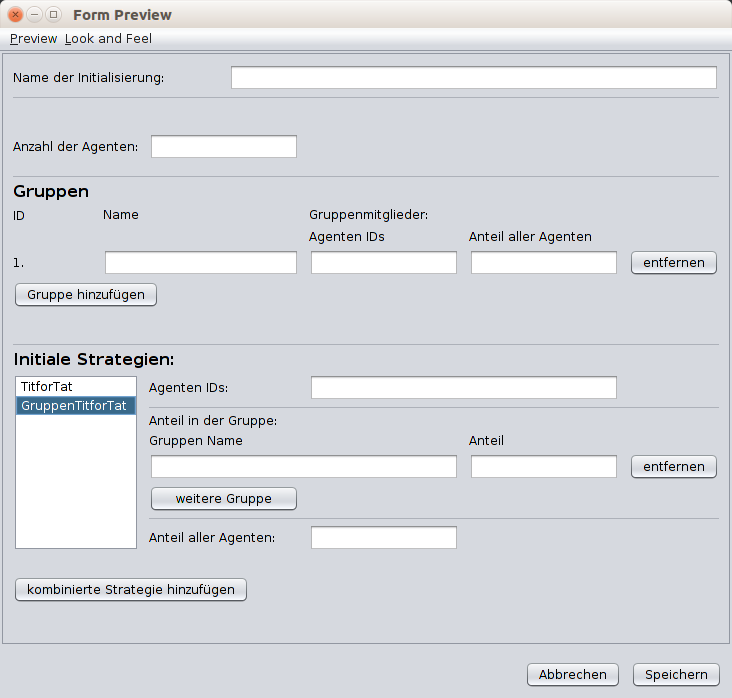
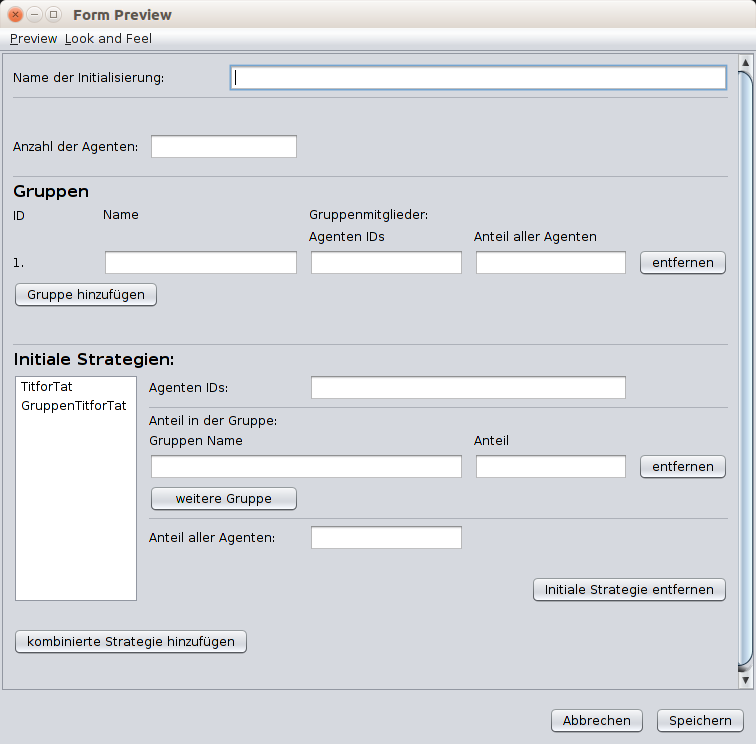
restlichen GUI Beschreibungen hinzugefügt

Changed region(s): [[0.0, 0.0602, 1.0, 0.9928], [0.0, 0.7822, 0.3306, 0.9026], [0.0, 0.0, 0.2404, 0.1504]]

diff --git a/Pflichtenheft/08_Benutzungsoberflaeche.tex b/Pflichtenheft/08_Benutzungsoberflaeche.tex
@@ -96,19 +96,19 @@
 
 \item[8. entfernen] Entfernt diese Zeile mit den entsprechenden Feldern drei bis sieben. Die Nummerierung wird entsprechend angepasst.
 
-\item[9. hinzufügen] 
+\item[9. hinzufügen] Fügt eine Zeile mit den entsprechenden Feldern drei bis sieben an. Die Nummerierung wird entsprechend fortgesetzt.
 
-\item[10. keine Bedingung] 
+\item[10. keine Bedingung] Strategie die ausgeführt, wenn keine der ausgewählten Bedingungen erfüllt ist.
 
-\item[11. Beschreibung] 
+\item[11. Beschreibung] Kombinierten Strategien kann eine Beschreibung hinzugefügt werden.
 
-\item[12. neue kombinierte Strategie] 
+\item[12. neue kombinierte Strategie] Fügt eine neue kombinierte Strategie in die Liste an. 
 
-\item[13. kombinierte Strategie löschen] 
+\item[13. kombinierte Strategie löschen] Die in der Liste ausgewählte kombinierte Strategie wird gelöscht.
 
-\item[14. Abbrechen] 
+\item[14. Abbrechen] Alle zuvor vorgenommen Änderungen inklusive das Erstellen neuer kombinierter Strategien werden verworfen und die Kombinierte Strategien Verwaltung schließt sich. 
 
-\item[15. Änderungen speichern und schließen] 
+\item[15. Änderungen speichern und schließen] Alle zuvor vorgenommen Änderungen werden gespeichert und die Kombinierte Strategien Verwaltung schließt sich.
 
 \end{description}
 
@@ -126,41 +126,43 @@
 
 \begin{description}
 
-\item[1. Name] 
+\item[1. Name] Name der Initialisierung
 
-\item[2. Anzahl der Agenten] 
+\item[2. Anzahl der Agenten] Anzahl der Agenten soll hier angegeben werden.
 
-\item[3. Gruppen - ID] 
+\item[3. Gruppen - ID] Die Gruppen ID wird automatisch vergeben.
 
-\item[4. Gruppen - Name] 
+\item[4. Gruppen - Name] Der Gruppen Name soll hier angegeben werden.
 
-\item[5. Gruppen - AgentenIDs] 
+\item[5. Gruppen - AgentenIDs] Hier können einzelne IDs ind ID Intervalle von Agenten dieser Gruppe angegeben werden. 
 
-\item[6. Gruppen - Anteil aller Agenten] 
+\item[6. Gruppen - Anteil aller Agenten] Hier kann ein prozentualer Anteil aller Agenten in dieser Gruppe angegeben werden.
 
-\item[7. Gruppen - entfernen] 
+\item[7. Gruppen - entfernen] Entfernt die Zeile mit den Feldern drei bis sechs. Die IDs der Gruppen werden entsprechend angepasst. 
 
-\item[8. Gruppen - Gruppe hinzufügen] 
+\item[8. Gruppen - Gruppe hinzufügen] Fügt eine neue Zeile mit den Felder drei bis sechs an. Die ID wird entsprechend vergeben.
 
-\item[9. Initiale Strategien - Liste] 
+\item[9. Initiale Strategien - Liste] Enthält alle initialen kombinierten Strategien. Die Parameter für den Anteil der in der Liste ausgewählte initiale Strategie werden rechts neben der Liste angezeigt. 
 
-\item[10. Initiale Strategien - Agenten IDs] 
+\item[10. Initiale Strategien - Agenten IDs] Hier können einzelne IDs ind ID Intervalle von Agenten mit dieser Strategie angegeben werden. 
 
-\item[11. Initiale Strategien - Gruppen Name] 
+\item[11. Initiale Strategien - Gruppen Name] Hier kann ein Gruppe mit ihrem Namen angegeben werden, zu der der Anteil der Agenten mit der gewählten Strategie angegeben werden soll.
 
-\item[12. Initiale Strategien - Anteil] 
+\item[12. Initiale Strategien - Anteil] Anteil der Agenten in der Gruppe mit der gewählten Strategie soll hier angegeben werden.
 
-\item[13. Initiale Strategien - entfernen] 
+\item[13. Initiale Strategien - entfernen] Entfernt die Zeile mit den Feldern elf und zwölf.
 
-\item[14. Initiale Strategien - weitere Gruppe] 
+\item[14. Initiale Strategien - weitere Gruppe] Fügt eine Zeile mit den Feldern elf und zwölf an.
 
-\item[15. Initiale Strategien - Anteil der Agenten] 
+\item[15. Initiale Strategien - Anteil der Agenten] Hier kann der Anteil aller Agenten mit dieser Initialen Strategie angegeben werden.
 
-\item[16. Initiale Strategien - kombinierte Strategie hinzufügen] 
+\item[17. Initiale Strategien - Initiale Strategie entfernen] Entfernt die ausgewählte initiale Strategie aus der Liste. 
 
-\item[17. Abbrechen] 
+\item[17. Initiale Strategien - kombinierte Strategie hinzufügen] 
 
-\item[18. Speichern] 
+\item[18. Abbrechen] Alle Änderungen werden verworfen und das Fenster wird geschlossen.
+
+\item[19. Speichern] Alle Änderungen werden gespeichert und das Fenster wird geschlossen.
 
 \end{description}
 
@@ -185,25 +187,25 @@
 
 \begin{description}
 
-\item[1. Stufenspiel] 
+\item[1. Stufenspiel] Hier kann eines von den gespeicherten und voreingestellten Stufenspielen ausgewählt werden. Im Textfeld darunter werden Informationen zum ausgewählten Stufenspiel angegeben.
 
-\item[2. Initialisierung] 
+\item[2. Initialisierung] Hier kann eine zuvor gespeicherte Initialisierung ausgewählt werden. Im Textfeld darunter werden Informationen zur ausgewählten Initialisierung angegeben.
 
-\item[3. Algorithmus zum Bilden von Paaren] 
+\item[3. Algorithmus zum Bilden von Paaren] Hier soll ein Algorithmus zum Bilden von Paaren gewählt werden. 
 
-\item[4. Bewertungsalgorithmus] 
+\item[4. Bewertungsalgorithmus] Hier soll ein Algorithmus zum Bilden von Paaren gewählt werden.
 
-\item[5. Anpassungsalgorithmus] 
+\item[5. Anpassungsalgorithmus] Hier soll ein Algorithmus zum Bilden von Paaren gewählt werden.
 
-\item[6. Wahrscheinlichkeit für Strategieanpassung] 
+\item[6. Wahrscheinlichkeit für Strategieanpassung] Hier soll die Wahrscheinlichkeit für Strategieanpassung angegeben werden.
 
-\item[7. Anzahl der Runden] 
+\item[7. Anzahl der Runden] Hier soll die Anzahl der Runden angegeben werden.
 
-\item[8. Maximale Anzahl der Zyklen] 
+\item[8. Maximale Anzahl der Zyklen] Hier soll die Maximale Anzahl der Zyklen angegeben werden.
 
-\item[9. fertig] 
+\item[9. fertig] Das Fenster wird geschlossen und die durch die Parameter bestimmten Konfigurationen werden auf die Startseite geladen.
 
-\item[10. Abbrechen]
+\item[10. Abbrechen] Alle Eingaben werden verworfen und das Fenster wird geschlossen.
 
 
 \end{description}
@@ -222,17 +224,15 @@
 
 \begin{description}
 
-\item[1. Konfiguration] 
+\item[1. Konfiguration] Die Konfiguration die für die Simulation verwendet wurde.
 
-\item[2. Wiederholung] 
+\item[2. Wiederholung] Es kann zwischen den einzelnen Wiederholungen der Simulation oder dem Durchschnitt gewählt werden, zu denen die Ergebnisse angezeigt werden.
 
-\item[3. Liste Ergebnis Ansichten] 
+\item[3. Liste Ergebnis Ansichten] Es gibt verschiedene Details die dem Nutzer graphisch angezeigt werden können. Die entsprechenden Daten und Graphiken werden rechts im Ansicht Panel angezeigt.
 
-\item[4. Ansicht] 
+\item[4. Ansicht] In diesem Panel werden die Ergebnis-Graphiken angezeigt. Bei Graphiken die verschiedene Optionen bieten, kann zwischen diesen im oberen Drop-Down-Menü gewählt werden.
 
-\item[5. Ansicht Optionen] 
-
-\item[6. Vergleichen mit...] 
+\item[5. Vergleichen mit...] öffet das Verglaichfenster. Die Konfiguration ist in der linken Spalte bereits ausgewählt.
 
 \end{description}
 
@@ -250,15 +250,14 @@
 
 \begin{description}
 
-\item[1. Konfiguration] 
+\item[1. Konfiguration] In den zwei Spalten können die Konfigurationen gewählt werden, deren Simulationen verglichen werden sollen.
 
-\item[2. Wiederholung] 
+\item[2. Wiederholung] Ebenso kann zu jeder Konfiguration die Wiederholung oder der Durchschnitt gewählt, um zu bestimmen welche Ergebnisse mit einander verglichen werden sollen.
 
-\item[3. Liste Ergebnis Ansichten] 
+\item[3. Liste Ergebnis Ansichten] Es gibt verschiedene Details die dem Nutzer graphisch angezeigt werden können. Die entsprechenden Daten und Graphiken werden rechts im Ansicht Panel angezeigt.
 
-\item[4. Ansicht] 
 
-\item[5. Ansicht Optionen] 
+\item[4. Ansicht] In diesem Panel werden in der jeweiligen Spalte die ausgewählten Ergebnissansicht zu der entsprechenden Konfiguration angezeigt. Unter den Spalten wird die Differenz der beiden Ergebnisse angegeben. Bei Graphiken die verschiedene Optionen bieten, kann zwischen diesen im oberen Drop-Down-Menü gewählt werden.
 
 \end{description}
 
